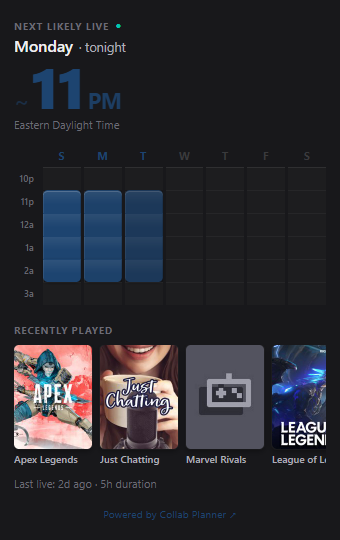
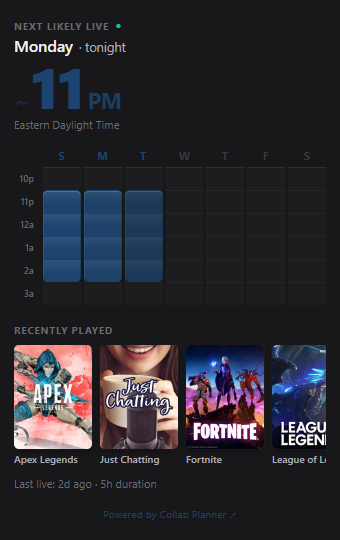
ext: 0.10.0 — countdown chip, panel slot height bump to 500px, Marvel→Fortnite
- Countdown chip top-right of schedule summary, accent-filled, hh:mm or
  Xd Yh format. Re-renders every 60s via useState/setInterval.
- Panel slot height in manifest 300→500. The rich 0.9 panel content was
  scrolling in the 300px slot; bumping to Twitch's max removes the scroll.
- Marvel Rivals had no Twitch box art (CDN returned 5.6KB placeholder);
  swapped for Fortnite across slideshow + live SPA mock.

Changed region(s): [[0.5294, 0.6222, 0.7941, 0.8593]]

diff --git a/twitch-extension/src/components/ScheduleSummary.tsx b/twitch-extension/src/components/ScheduleSummary.tsx
@@ -1,3 +1,4 @@
+import { useEffect, useState } from "react";
 import type { PanelResponse } from "../lib/types";
 
 type Summary = Extract<PanelResponse, { status: "ok" }>["summary"];
@@ -23,24 +24,42 @@ function tzLongName(tz: string): string {
   }
 }
 
-/**
- * Find the next likely live datetime by combining topDays + medianHour.
- * Uses the viewer's local clock for "today" detection — close-enough since
- * the countdown is in days, not minutes. Returns the next active day +
- * days-away count, plus a friendly relative label ("Tonight" / "Tomorrow" /
- * weekday name).
- */
-function nextLikelyLive(topDays: string[], medianHour: number): {
-  dayLabel: string;
-  fullDay: string;
-  daysAway: number;
-  relative: string;
-} | null {
+/** Find the precise Date of the next likely live slot (viewer's local clock). */
+function nextLikelyLiveDate(topDays: string[], medianHour: number): Date | null {
   if (topDays.length === 0) return null;
-
   const activeDows = topDays
     .map((d) => DAY_NAMES_SHORT.indexOf(d))
     .filter((i) => i !== -1);
+  if (activeDows.length === 0) return null;
+
+  const now = new Date();
+  for (let i = 0; i < 14; i++) {
+    const candidate = new Date(now);
+    candidate.setDate(candidate.getDate() + i);
+    candidate.setHours(medianHour, 0, 0, 0);
+    if (candidate.getTime() <= now.getTime()) continue;
+    if (activeDows.includes(candidate.getDay())) return candidate;
+  }
+  return null;
+}
+
+/** Format hh:mm style countdown ("4h 23m", "47m", "2d 3h"). */
+function formatCountdown(target: Date | null, nowMs: number): string {
+  if (!target) return "";
+  const diffMs = target.getTime() - nowMs;
+  if (diffMs <= 0) return "live now?";
+  const totalMin = Math.floor(diffMs / 60_000);
+  const days = Math.floor(totalMin / (24 * 60));
+  const hours = Math.floor((totalMin % (24 * 60)) / 60);
+  const mins = totalMin % 60;
+  if (days > 0) return `${days}d ${hours}h`;
+  if (hours > 0) return `${hours}h ${mins}m`;
+  return `${mins}m`;
+}
+
+function nextLikelyRelative(topDays: string[], medianHour: number): { dayLabel: string; fullDay: string; relative: string } | null {
+  if (topDays.length === 0) return null;
+  const activeDows = topDays.map((d) => DAY_NAMES_SHORT.indexOf(d)).filter((i) => i !== -1);
   if (activeDows.length === 0) return null;
 
   const now = new Date();
@@ -50,25 +69,17 @@ function nextLikelyLive(topDays: string[], medianHour: number): {
   for (let i = 0; i < 7; i++) {
     const checkDow = (todayDow + i) % 7;
     if (!activeDows.includes(checkDow)) continue;
-    // If today's slot has already passed, skip to next
     if (i === 0 && currentHour >= medianHour) continue;
-
     const dayLabel = DAY_NAMES_SHORT[checkDow];
     const fullDay = DAY_NAMES_FULL[checkDow];
     let relative: string;
     if (i === 0) {
       const hoursAway = medianHour - currentHour;
       relative = hoursAway <= 2 ? "soon" : hoursAway <= 6 ? `in ${hoursAway}h` : "tonight";
-    } else if (i === 1) {
-      relative = "tomorrow";
-    } else {
-      relative = `in ${i} days`;
-    }
-
-    return { dayLabel, fullDay, daysAway: i, relative };
+    } else if (i === 1) relative = "tomorrow";
+    else relative = `in ${i} days`;
+    return { dayLabel, fullDay, relative };
   }
-
-  // Fallback: should never reach (we iterated all 7 days)
   return null;
 }
 
@@ -76,15 +87,27 @@ export function ScheduleSummary({ summary }: Props) {
   const { topDays, medianHour, tz, isEstimate, hasPostedSchedule } = summary;
   const { h, ampm } = clockParts(medianHour);
   const tzName = tzLongName(tz);
-  const next = nextLikelyLive(topDays, medianHour);
+  const next = nextLikelyRelative(topDays, medianHour);
+  const nextDate = nextLikelyLiveDate(topDays, medianHour);
+
+  // Re-render once a minute so the countdown stays current
+  const [nowMs, setNowMs] = useState(Date.now());
+  useEffect(() => {
+    const id = setInterval(() => setNowMs(Date.now()), 60_000);
+    return () => clearInterval(id);
+  }, []);
+  const countdown = formatCountdown(nextDate, nowMs);
 
   return (
     <div className="schedule">
-      <div className="schedule-label">
-        {isEstimate ? "Estimated next live" : "Next likely live"}
-        {hasPostedSchedule && (
-          <span className="schedule-posted" title="Has posted Twitch schedule">●</span>
-        )}
+      <div className="schedule-toprow">
+        <div className="schedule-label">
+          {isEstimate ? "Estimated next live" : "Next likely live"}
+          {hasPostedSchedule && (
+            <span className="schedule-posted" title="Has posted Twitch schedule">●</span>
+          )}
+        </div>
+        {countdown && <div className="schedule-countdown">{countdown}</div>}
       </div>
 
       {next && (

diff --git a/twitch-extension/src/styles.css b/twitch-extension/src/styles.css
@@ -19,13 +19,30 @@ body {
   margin-top: 4px;
 }
 
-/* Caption above the day — gives the hero number tense ("future, not historical") */
+/* Top row: label on left, live countdown chip on right */
+.schedule-toprow {
+  display: flex;
+  justify-content: space-between;
+  align-items: center;
+  gap: 8px;
+}
 .schedule-label {
   font-size: 10px;
   font-weight: 700;
   letter-spacing: 0.08em;
   text-transform: uppercase;
   color: #6b6b75;
+}
+.schedule-countdown {
+  font-size: 11px;
+  font-weight: 700;
+  color: var(--accent);
+  background: var(--accent);
+  color: var(--accent-text);
+  padding: 2px 8px;
+  border-radius: 10px;
+  font-variant-numeric: tabular-nums;
+  letter-spacing: 0.02em;
 }
 .schedule-posted {
   color: #00c8af;

diff --git a/twitch-extension/src/panel.tsx b/twitch-extension/src/panel.tsx
@@ -50,7 +50,7 @@ function Panel() {
             medianHour: 23, // ~7PM ET
             tz: "America/New_York",
             topGame: "Apex Legends",
-            topGames: ["Apex Legends", "Just Chatting", "Marvel Rivals", "League of Legends"],
+            topGames: ["Apex Legends", "Just Chatting", "Fortnite", "League of Legends"],
             isEstimate: false,
             hasPostedSchedule: true,
             // Realistic concentrated evening pattern — peak at 22-24 UTC.
